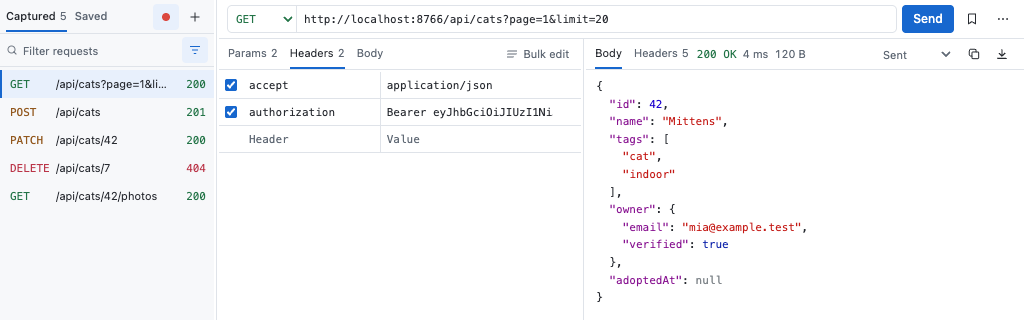
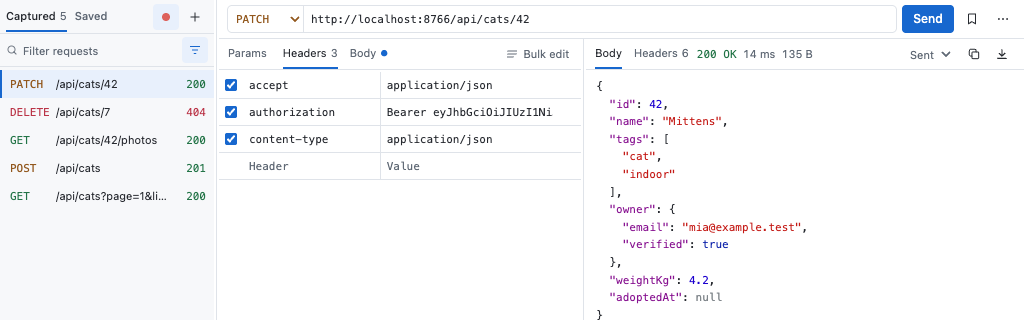
docs: refresh README screenshots for the compact layout (#18)

diff --git a/scripts/screenshot.js b/scripts/screenshot.js
@@ -1,51 +1,103 @@
-// Renders docs/screenshot.png: the compact panel at a bottom-docked size (1024 × 320) with a few
-// captured requests and one replayed response. Uses the same harness as test/e2e.js (stubbed
-// chrome.devtools) in Playwright's Chromium.
+// Renders the README images into docs/: the compact panel at a bottom-docked size (1024 × 320,
+// screenshot.png) and at a side-docked size (380 × 480, screenshot-side.png), each in the light and
+// the dark appearance (-dark suffix). The scene is the same for all four: a few captured requests,
+// one of them selected, its Headers tab open and one replayed JSON response. Uses the same harness
+// as test/e2e.js (stubbed chrome.devtools) in Playwright's Chromium.
 import http from 'node:http';
 import path from 'node:path';
 import fs from 'node:fs';
 import { buildExtension, launch, openPanel, harEntry, waitForRows, waitForSendDone } from '../test/harness.js';
 
 const root = path.join(import.meta.dirname, '..');
-const out = path.join(root, 'docs', 'screenshot.png');
+const docs = path.join(root, 'docs');
+const PORT = 8766;
+
+const SIZES = [
+  { name: 'screenshot', width: 1024, height: 320 },      // docked at the bottom: wide layout
+  { name: 'screenshot-side', width: 380, height: 480 },  // docked to the side: narrow layout
+];
+
+const cat = {
+  id: 42,
+  name: 'Mittens',
+  tags: ['cat', 'indoor'],
+  owner: { email: 'mia@example.test', verified: true },
+  weightKg: 4.2,
+  adoptedAt: null,
+};
 
 const server = http.createServer((req, res) => {
   res.setHeader('content-type', 'application/json');
-  res.end(JSON.stringify({ id: 42, name: 'Mittens', tags: ['cat', 'indoor'], owner: { email: 'mia@example.test', verified: true }, adoptedAt: null }));
+  res.setHeader('cache-control', 'no-store');
+  res.end(JSON.stringify(cat));
 });
 
-await new Promise((r) => server.listen(8766, r));
+// The captured requests, newest first in the list: the selected one (a PATCH with a JSON body)
+// is emitted last so it sits at the top.
+function emitScene(port) {
+  const base = `http://localhost:${port}`;
+  const call = (method, url, status, time, body) => harEntry({
+    method, url: base + url, status, time, body,
+    statusText: status === 201 ? 'Created' : status === 404 ? 'Not Found' : 'OK',
+    headers: [
+      { name: 'accept', value: 'application/json' },
+      { name: 'authorization', value: 'Bearer eyJhbGciOiJIUzI1NiJ9.demo' },
+      ...(body ? [{ name: 'content-type', value: 'application/json' }] : []),
+    ],
+    resHeaders: [{ name: 'content-type', value: 'application/json' }],
+    content: '{"id":42,"name":"Mittens"}',
+  });
+  __emit(call('GET', '/api/cats?page=1&limit=20', 200, 83));
+  __emit(call('POST', '/api/cats', 201, 142, '{"name":"Mittens","tags":["cat","indoor"]}'));
+  __emit(call('GET', '/api/cats/42/photos', 200, 61));
+  __emit(call('DELETE', '/api/cats/7', 404, 51));
+  __emit(call('PATCH', '/api/cats/42', 200, 96, '{"name":"Mittens","weightKg":4.2}'));
+}
+
+// Appearance through the panel's own control: the Options menu closes itself after the click.
+// The Options button sits in the sidebar, which the narrow layout's detail screen hides: go back to
+// the list for the click and reopen the row afterwards (the selection and the Response view stay).
+async function setAppearance(page, value) {
+  const onDetail = await page.evaluate(() => {
+    const app = document.getElementById('app');
+    return app.dataset.layout === 'narrow' && app.dataset.screen === 'detail';
+  });
+  if (onDetail) await page.click('#backBtn');
+  await page.click('#captureBtn');
+  await page.click(`#appearance button[data-appearance=${value}]`);
+  await page.waitForFunction((dark) => document.documentElement.classList.contains('dark') === dark, value === 'dark');
+  if (onDetail) await page.locator('#requestList li.selected').click();
+}
+
+async function shoot(page, file) {
+  await page.evaluate(() => document.activeElement?.blur());
+  await page.mouse.move(0, 0);
+  const out = path.join(docs, file);
+  await page.screenshot({ path: out });
+  console.log(`${path.relative(root, out)}  ${(fs.statSync(out).size / 1024).toFixed(1)} KB`);
+}
+
+await new Promise((r) => server.listen(PORT, r));
 const { dir, cleanup } = buildExtension();
 const { ctx, id } = await launch(dir);
 try {
-  const { page } = await openPanel(ctx, id, { width: 1024, height: 320 });
-  await page.evaluate(() => {
-    const call = (method, url, status, time, body) => harEntry({
-      method, url, status, time, body,
-      statusText: status === 201 ? 'Created' : status === 404 ? 'Not Found' : 'OK',
-      headers: [{ name: 'accept', value: 'application/json' }, { name: 'authorization', value: 'Bearer eyJhbGciOiJIUzI1NiJ9.demo' }],
-      resHeaders: [{ name: 'content-type', value: 'application/json' }],
-      content: '{"id":42,"name":"Mittens"}',
-    });
-    __emit(call('GET', 'http://localhost:8766/api/cats/42/photos', 200, 61));
-    __emit(call('DELETE', 'http://localhost:8766/api/cats/7', 404, 51));
-    __emit(call('PATCH', 'http://localhost:8766/api/cats/42', 200, 96, '{"name":"Mittens"}'));
-    __emit(call('POST', 'http://localhost:8766/api/cats', 201, 142, '{"name":"Mittens","tags":["cat","indoor"]}'));
-    __emit(call('GET', 'http://localhost:8766/api/cats?page=1&limit=20', 200, 83));
-  });
-  await waitForRows(page, 5);
-  // Light appearance (the stubbed DevTools reports a dark theme).
-  await page.click('#captureBtn');
-  await page.click('#appearance button[data-appearance=light]');
-  await page.locator('#requestList li[data-id]').first().click();
-  await page.click('#reqTabs button[data-tab=headers]');
-  await page.click('#sendBtn');
-  await waitForSendDone(page);
-  await page.evaluate(() => document.activeElement?.blur());
-  await page.mouse.move(0, 0);
-  fs.mkdirSync(path.dirname(out), { recursive: true });
-  await page.screenshot({ path: out });
-  console.log(path.relative(root, out));
+  fs.mkdirSync(docs, { recursive: true });
+  for (const { name, width, height } of SIZES) {
+    const { page } = await openPanel(ctx, id, { width, height });
+    await page.evaluate(emitScene, PORT);
+    await waitForRows(page, 5);
+    // Start light: the stubbed DevTools reports a dark theme, which 'system' would follow.
+    await setAppearance(page, 'light');
+    // A click opens the detail screen in the narrow layout; the send then reveals the response there.
+    await page.locator('#requestList li[data-id]').first().click();
+    await page.click('#reqTabs button[data-tab=headers]');
+    await page.click('#sendBtn');
+    await waitForSendDone(page);
+    await shoot(page, `${name}.png`);
+    await setAppearance(page, 'dark');
+    await shoot(page, `${name}-dark.png`);
+    await page.close();
+  }
 } finally {
   await ctx.close();
   server.close();

diff --git a/AGENTS.md b/AGENTS.md
@@ -22,7 +22,7 @@ dependencies. `README.md` describes the behaviour; this file describes the code.
 | `test/*.test.js` | Unit tests (`node:test`): `lib.test.js` covers `src/lib`, `regressions.test.js` pins fixed bugs, `pack.test.js` packs and checks the zip's contents |
 | `test/e2e.js`, `test/real-devtools.js` | Playwright e2e against the stubbed `chrome.devtools`; real Chrome + DevTools over CDP |
 | `test/harness.js`, `test/devtools-stub.js` | Builds and launches the extension for e2e and the screenshot script, with shared waits (`waitForRows`, `waitForSendDone`); the fake `chrome.devtools` the harness page loads before the panel |
-| `scripts/pack.js`, `scripts/screenshot.js` | Zip for distribution (excludes `src/build-info.js`; `test/pack.test.js` checks that); renders `docs/screenshot.png` (the README image) through the harness |
+| `scripts/pack.js`, `scripts/screenshot.js` | Zip for distribution (excludes `src/build-info.js`; `test/pack.test.js` checks that); renders the README images (`docs/screenshot*.png`: bottom and side docking, light and dark) through the harness |
 | `scripts/stamp.js`, `src/build-info.js` | `npm run stamp` writes `src/build-info.js` (generated, git-ignored, never packed: `export default { commit, short, branch, time }`) from `git rev-parse`; `main.js` looks it up with `chrome.runtime.getPackageDirectoryEntry` and imports it when present to extend the version line in the Options menu |
 | `scripts/release.js`, `scripts/changelog-section.js` | `npm run release <version>` prepares the release branch (version bump, changelog), `npm run release tag` tags the merged `main`; prints one `CHANGELOG.md` section (release notes) |
 | `.github/workflows/` | `check.yml` runs lint, unit, e2e and real-DevTools tests, then pack (the zip is uploaded as a workflow artifact) on push/PR; `release.yml` checks the `v*` tag against the version, runs lint/unit/e2e, packs and publishes the release with the changelog section as notes |

diff --git a/README.md b/README.md
@@ -9,6 +9,10 @@ inspecting, lets you edit and resend them, and keeps the ones you need in a coll
 
 ![Postcat panel docked at the bottom of DevTools: captured requests on the left, request editor and highlighted JSON response on the right](docs/screenshot.png)
 
+<img src="docs/screenshot-side.png" alt="Postcat docked to the side of DevTools: the narrow layout shows one request at a time, here the JSON response to a replayed PATCH, with a Requests button leading back to the list" width="380" height="480">
+
+The same two views in the dark appearance: [bottom](docs/screenshot-dark.png), [side](docs/screenshot-side-dark.png).
+
 - **Capture** – every request of the inspected tab, with its response body. "Import log" adds
   what DevTools recorded before the panel was opened.
 - **Edit** – method, URL, query params (table), headers (table or bulk text), body with live
@@ -116,7 +120,7 @@ npm run check       # all of the above
 npm run pack        # dist/postcat-<version>.zip
 npm run stamp       # src/build-info.js (git-ignored): the panel's version line names the commit, branch and time
 npm run release <version>  # release branch: version bump + changelog; `npm run release tag` after the merge
-npm run screenshot  # docs/screenshot.png for this README
+npm run screenshot  # docs/screenshot*.png for this README (bottom and side docking, light and dark)
 ```
 
 When testing a branch as an unpacked extension, `npm run stamp` before reloading it turns the
